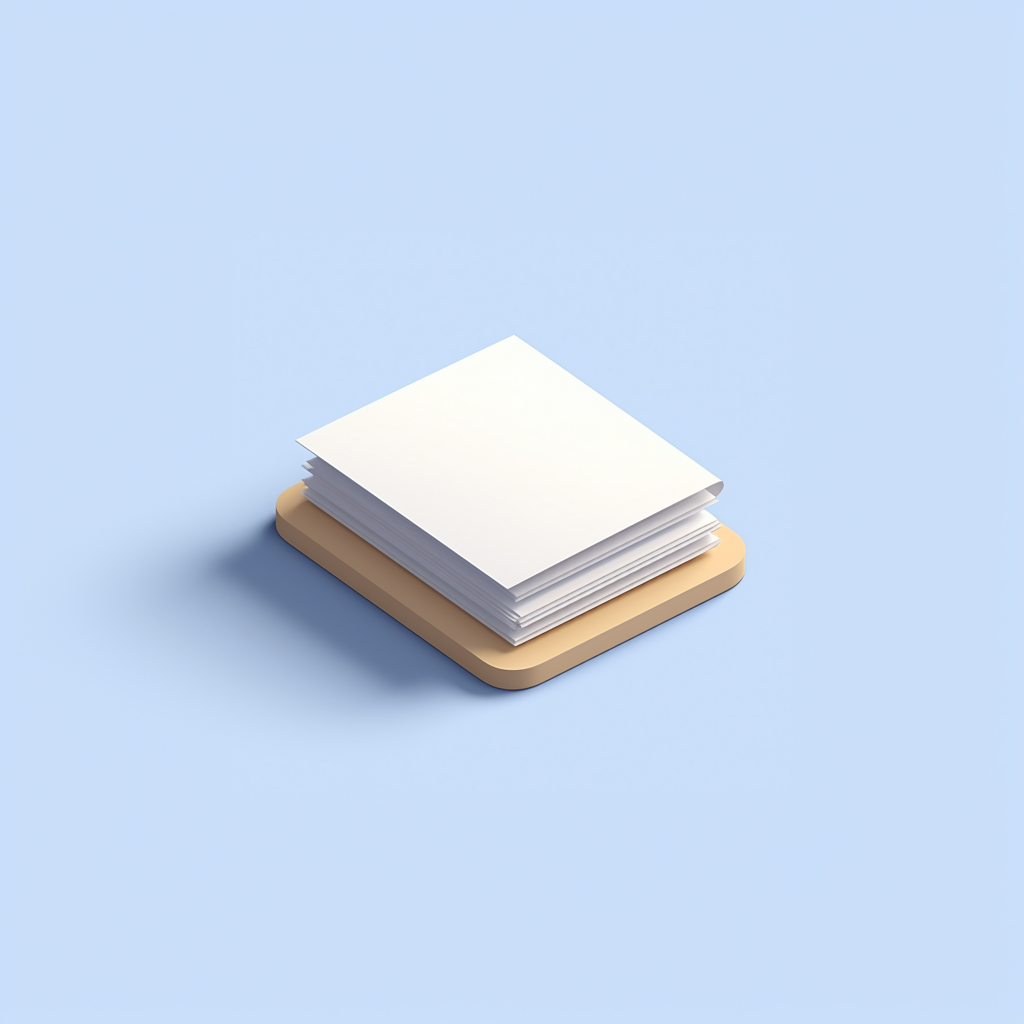
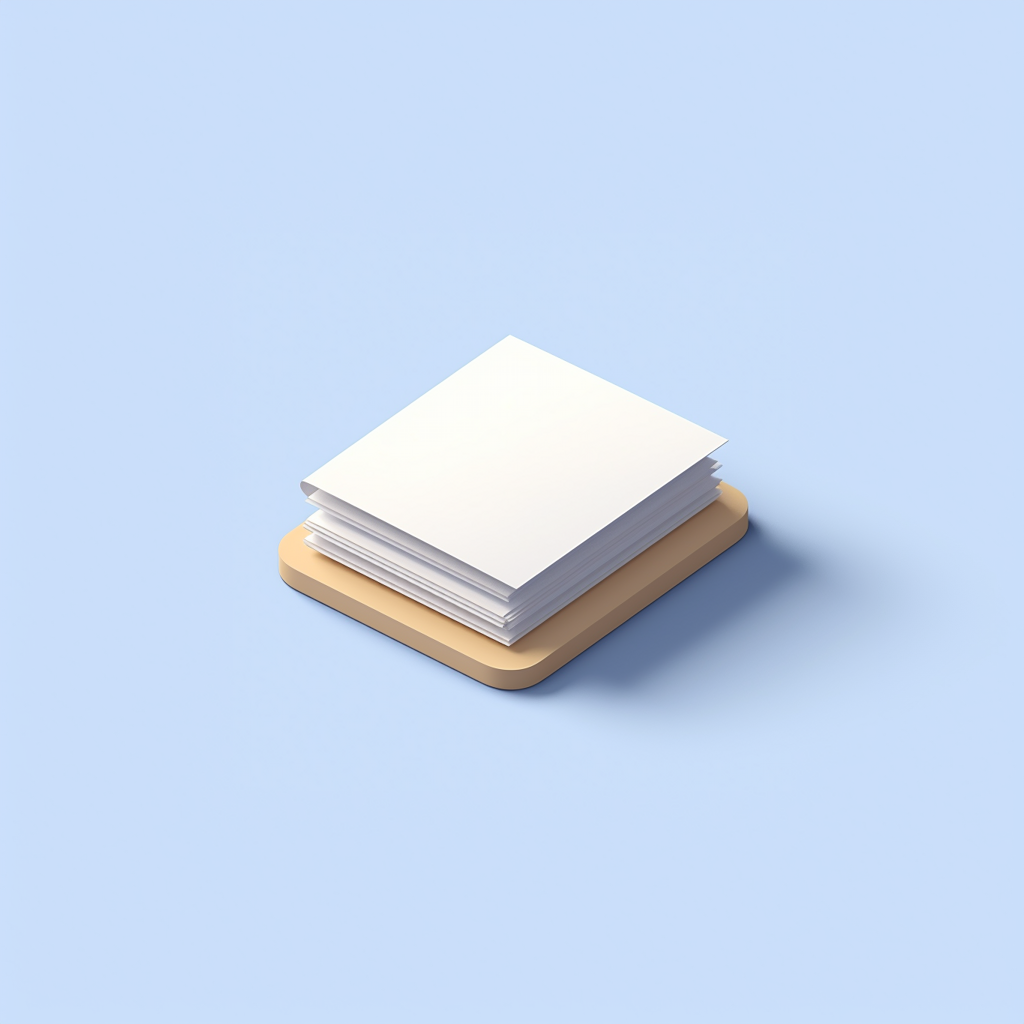
blog wip

Changed region(s): [[0.125, 0.3438, 0.875, 0.7188]]

diff --git a/app/blog/tomtom-case-study/page.tsx b/app/blog/tomtom-case-study/page.tsx
@@ -4,7 +4,7 @@ import ArticleIntro from "@/components/Article/ArticleIntro";
 import ArticleText from "@/components/Article/ArticleText";
 import ArticleSubtitle from "@/components/Article/ArticleSubtitle";
 import Header from "@/components/Header";
-import illustrationGps from "@/public/illustration-gps-crop.png";
+import illustrationGps from "@/public/illustration-gps-blog.png";
 
 export default function TomTomCaseStudy() {
   return (

diff --git a/app/globals.css b/app/globals.css
@@ -27,11 +27,11 @@ a {
   padding-right: var(--page-padding);
 }
 
-@media (prefers-color-scheme: dark) {
+/*@media (prefers-color-scheme: dark) {
   html {
     color-scheme: dark;
   }
-}
+}*/
 
 @media (max-width: 700px) {
   :root {

diff --git a/components/Header.module.css b/components/Header.module.css
@@ -35,7 +35,7 @@
   }
 
   .logo {
-    padding-top: 32px;
+    margin-top: 32px;
   }
 
   .menu {
